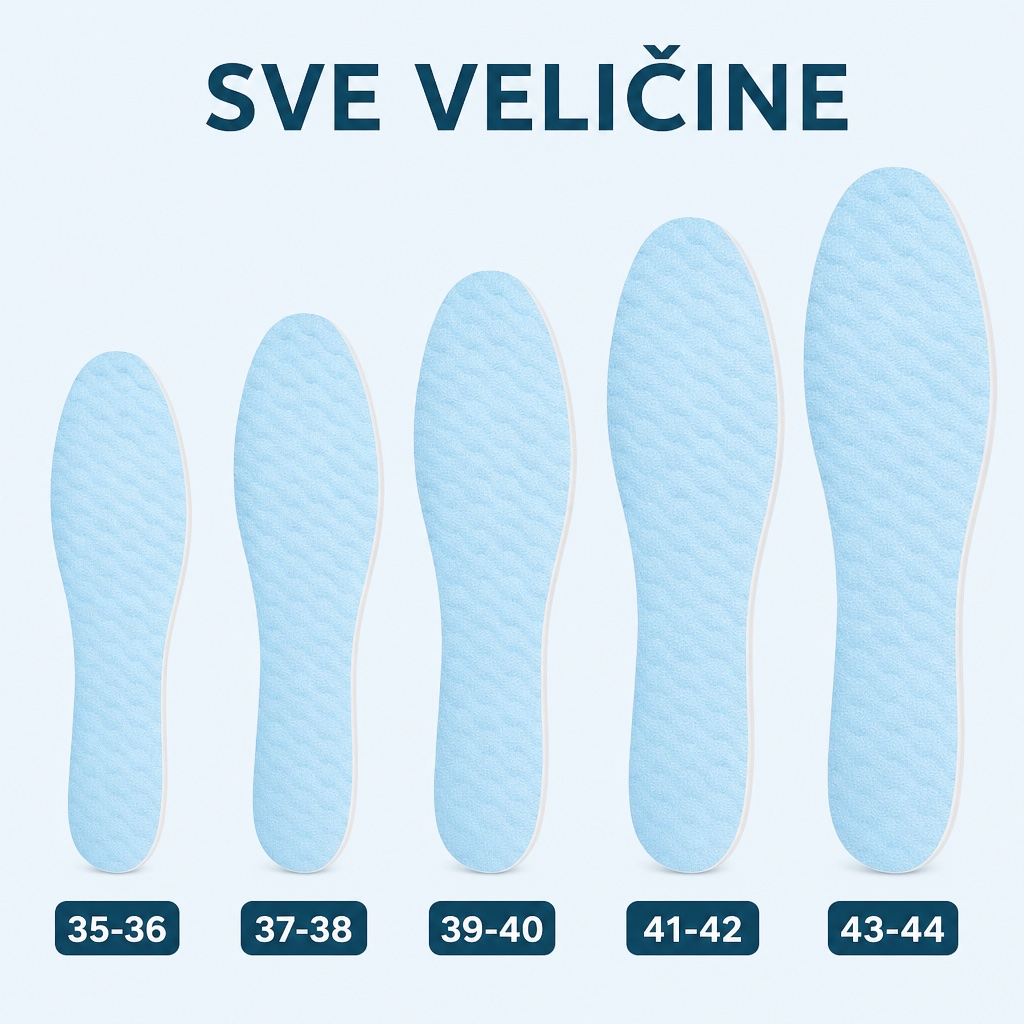
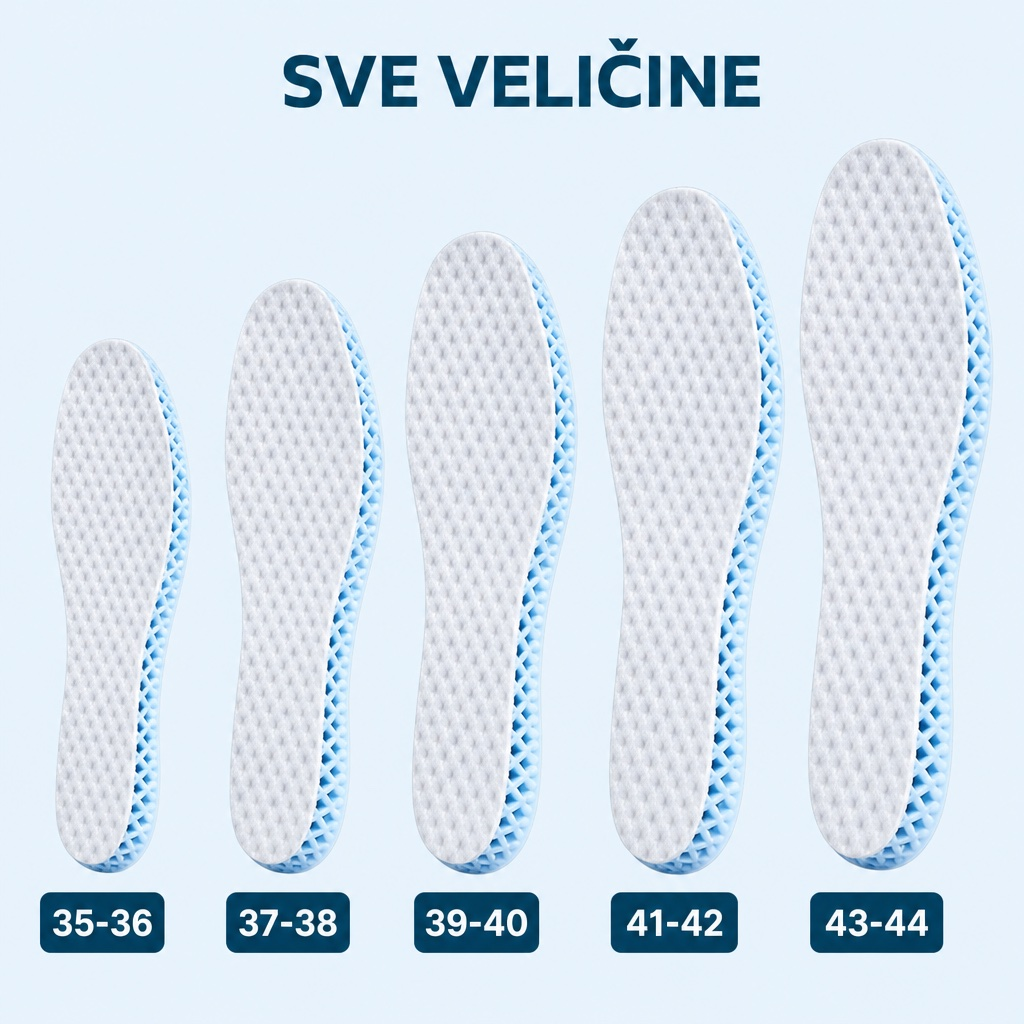
deploy 2026-08-06-2024

diff --git a/lednik-ulosci/index.html b/lednik-ulosci/index.html
@@ -3,7 +3,7 @@
 <head>
 <meta charset="utf-8">
 <meta name="viewport" content="width=device-width, initial-scale=1, viewport-fit=cover">
-<title>Ulošci za cipele protiv znojenja i mirisa – stopala ostaju suva i sveža ceo dan, i u patikama | LEDNIK</title>
+<title>Rashlađujući 4D ulošci za patike i cipele – vazduh kruži, stopala ostaju suva i bez mirisa ceo dan | LEDNIK</title>
 <style>
 /* ============================================================
    PAGE-DUPLICATOR TEMPLATE — bundle-builder funnel
@@ -421,12 +421,12 @@ footer .disc{margin-top:12px;font-size:11px;line-height:1.5;text-align:left}
   <div class="wrap">
     <h2 class="display center">SUVA STOPALA BEZ PRSKANJA I PUDERA</h2>
     <p>Znaš onaj trenutak kad se izuješ kod nekoga u kući? Ceo dan si na nogama, obuća ne diše, a onda ti je neprijatno pred ljudima. Rešenje obično bude sprej ujutru, puder u čarapama, pa opet isto do podne.</p>
-    <p><b>LEDNIK ide drugim putem.</b> Uložak koji upija znoj i vlagu direktno tamo gde nastaju — u obući. Ubaciš ga jednom i zaboraviš. Bez prskanja svako jutro i bez belog praha po čarapama.</p>
+    <p><b>LEDNIK ide drugim putem.</b> Umesto ravnog uloška koji samo leži u cipeli, ovo je otvorena 4D mreža — vazduh kroz nju struji pri svakom koraku, pa se vlaga ne zadržava. A mreža se skuplja pod stopalom i vraća, kao mali jastuk na svakom koraku.</p>
     <div class="cards">
-      <div class="card"><div class="ico">💧</div><b>Upija znoj i vlagu</b></div>
+      <div class="card"><div class="ico">💨</div><b>Vazduh kruži pri svakom koraku</b></div>
       <div class="card"><div class="ico">🌿</div><b>Neutrališe neprijatan miris</b></div>
-      <div class="card"><div class="ico">🪶</div><b>Tanki — ne stežu u obući</b></div>
-      <div class="card"><div class="ico">👟</div><b>Za patike, cipele i radnu obuću</b></div>
+      <div class="card"><div class="ico">🫧</div><b>4D mreža amortizuje korak</b></div>
+      <div class="card"><div class="ico">👟</div><b>Za patike i sportsku obuću</b></div>
     </div>
   </div>
 </section>
@@ -444,7 +444,7 @@ footer .disc{margin-top:12px;font-size:11px;line-height:1.5;text-align:left}
     <div class="review">
       <div class="s">★★★★★</div>
       <h4>Uzela sam komplet od 4</h4>
-      <q>Jedan par u patike za teretanu, jedan u cipele, ostalo mužu. Tanki su, ne osećaš ih uopšte, a obuća posle ne miriše.</q>
+      <q>Jedan par u patike za teretanu, jedan u cipele, ostalo mužu. Kao da hodaš po jastuku, a obuća posle ne miriše.</q>
       <div class="who"><span class="vc">✓</span>Dragana M.</div>
       <div class="vb">Recenzija kupca</div>
     </div>
@@ -463,9 +463,9 @@ footer .disc{margin-top:12px;font-size:11px;line-height:1.5;text-align:left}
   <section class="steps">
     <h2 class="display">TRI SEKUNDE I GOTOVO</h2>
     <p class="sub">Bez prskanja, bez pudera, bez čekanja.</p>
-    <div class="step"><div class="n">1</div><div><b>Izvadi stari uložak</b><span>Ako ga obuća uopšte ima — ako nema, LEDNIK ide direktno unutra.</span></div></div>
-    <div class="step"><div class="n">2</div><div><b>Ubaci LEDNIK</b><span>Meka strana gore, glatka strana dole. Legne sam od sebe.</span></div></div>
-    <div class="step"><div class="n">3</div><div><b>Obuj i kreni</b><span>Toliko su tanki da ti obuća ostaje ista po broju.</span></div></div>
+    <div class="step"><div class="n">1</div><div><b>Izvadi fabrički uložak</b><span>Obavezno — LEDNIK ide tačno na njegovo mesto.</span></div></div>
+    <div class="step"><div class="n">2</div><div><b>Ubaci LEDNIK</b><span>Bela mekana strana gore, plava mreža dole.</span></div></div>
+    <div class="step"><div class="n">3</div><div><b>Obuj i kreni</b><span>Mreža se skuplja pod stopalom i vraća pri svakom koraku.</span></div></div>
     <div class="step"><div class="n">4</div><div><b>Zameni kad poželiš</b><span>Zato ti se komplet od više pari i isplati — imaš rezervu spremnu.</span></div></div>
   </section>
 </div>
@@ -487,7 +487,7 @@ footer .disc{margin-top:12px;font-size:11px;line-height:1.5;text-align:left}
         <tr><td>Radi ceo dan</td><td class="us"><span class="yes">✓</span></td><td><span class="no">✕</span></td><td><span class="no">✕</span></td></tr>
         <tr><td>Bez prskanja svako jutro</td><td class="us"><span class="yes">✓</span></td><td><span class="no">✕</span></td><td><span class="yes">✓</span></td></tr>
         <tr><td>Upija znoj i vlagu</td><td class="us"><span class="yes">✓</span></td><td><span class="no">✕</span></td><td><span class="no">✕</span></td></tr>
-        <tr><td>Ne steže u obući</td><td class="us"><span class="yes">✓</span></td><td><span class="yes">✓</span></td><td><span class="no">✕</span></td></tr>
+        <tr><td>Amortizuje svaki korak</td><td class="us"><span class="yes">✓</span></td><td><span class="no">✕</span></td><td><span class="no">✕</span></td></tr>
         <tr><td>Plaćaš jednom</td><td class="us"><span class="yes">✓</span></td><td><span class="no">✕</span></td><td><span class="yes">✓</span></td></tr>
       </tbody>
     </table>
@@ -500,8 +500,8 @@ footer .disc{margin-top:12px;font-size:11px;line-height:1.5;text-align:left}
     <h2 class="display">ČESTA PITANJA</h2>
     <details open><summary>Kako da izaberem veličinu?</summary><p>Biraš po broju obuće koji inače nosiš — dostupne su veličine 35-36, 37-38, 39-40, 41-42 i 43-44. Ako si između dva broja, uzmi veći: uložak lako skratiš makazama po liniji na peti.</p></details>
     <details><summary>Šta tačno dobijam u paketu?</summary><p>Svaki par su dva uloška (levi i desni) u zaštitnoj kesici. Uz komplet od 3 ili više pari dobijaš i putnu kesicu za obuću.</p></details>
-    <details><summary>Da li se osete u obući?</summary><p>Ne. Ulošci su tanki (oko 4 mm) pa obuća ostaje ista po broju — ne stežu prste i ne dižu petu.</p></details>
-    <details><summary>Mogu li da ih perem?</summary><p>Možeš da ih prebrišeš vlažnom krpom i ostaviš da se osuše na vazduhu, van direktnog sunca. Ne idu u veš mašinu i ne suše se na radijatoru.</p></details>
+    <details><summary>Koliko su debeli i da li smetaju u obući?</summary><p>LEDNIK je 4D mreža debljine oko 8 mm — deblji je od običnog ravnog uloška, jer upravo ta visina pravi prostor kroz koji vazduh struji i amortizuje korak. Zato uvek izvadi fabrički uložak i stavi LEDNIK na njegovo mesto. Najbolje leže u patikama i sportskoj obući; u vrlo uskim cipelama ili salonkama bez vadljivog uloška nisu najbolji izbor.</p></details>
+    <details><summary>Mogu li da ih perem?</summary><p>Možeš da ih ispereš mlakom vodom i ostaviš da se ocede i osuše na vazduhu, van direktnog sunca — mreža se brzo suši. Ne idu u veš mašinu i ne suše se na radijatoru.</p></details>
     <details><summary>Koliko traju?</summary><p>Uz svakodnevno nošenje jedan par lepo izdrži oko mesec do dva. Zato većina kupaca i uzima komplet — imaš rezervu i ne moraš da poručuješ ponovo.</p></details>
     <details><summary>Kako plaćam?</summary><p>Pouzećem — gotovinom ili karticom kod kurira, tek kada ti paket stigne na vrata. Ne plaćaš ništa unapred.</p></details>
     <details><summary>Koliko traje isporuka?</summary><p>2–4 radna dana na celoj teritoriji Srbije. Dostava je besplatna za komplete od 2 i više pari.</p></details>

diff --git a/jasno-brisac-naocara-2/index.html b/jasno-brisac-naocara-2/index.html
@@ -193,6 +193,11 @@ footer .dis{border-top:1px solid #24394a;margin-top:18px;padding-top:13px;font-s
 .satc .t b{display:block;font:700 13px/1.2 var(--sans);white-space:nowrap;overflow:hidden;text-overflow:ellipsis}
 .satc .t span{display:block;font-size:11.5px;color:var(--mut);white-space:nowrap;overflow:hidden;text-overflow:ellipsis}
 .satc .atc{width:auto;flex:0 0 auto;padding:13px 15px;font-size:14px;box-shadow:0 3px 0 var(--ctaD)}
+
+/* Top header (hamburger / logo / cart) hidden — owner rule 2026-08-06: the LP B
+   replicas do not need the source's site chrome. Markup is kept so re-enabling is
+   just deleting this rule. Announcement bars/marquees stay: they carry offer copy. */
+body > header{display:none!important}
 </style>
 </head>
 <body>

diff --git a/pogled-ogledalo-za-sisanje-2/index.html b/pogled-ogledalo-za-sisanje-2/index.html
@@ -254,6 +254,11 @@ footer .ft{font-size:11.5px;font-weight:800;letter-spacing:.12em;text-transform:
 footer a{color:#DDE2E4;text-decoration:none;display:inline-block;margin:0 8px 6px 0}
 footer .disc{margin-top:16px;font-size:10.5px;line-height:1.6;color:#6B7880}
 footer .cp{margin-top:14px;font-size:11.5px}
+
+/* Top header (hamburger / logo / cart) hidden — owner rule 2026-08-06: the LP B
+   replicas do not need the source's site chrome. Markup is kept so re-enabling is
+   just deleting this rule. Announcement bars/marquees stay: they carry offer copy. */
+body > header{display:none!important}
 </style>
 </head>
 <body>

diff --git a/plavica-caj-2/index.html b/plavica-caj-2/index.html
@@ -133,6 +133,11 @@ footer .disc{margin-top:12px;font-size:11px;line-height:1.55;text-align:left;col
 .satc .atc{margin-left:auto;width:auto;flex:none;padding:14px 18px;font-size:13.5px}
 
 @media(min-width:768px){ .gal,.thumbs{max-width:560px;margin-left:auto;margin-right:auto} }
+
+/* Top header (hamburger / logo / cart) hidden — owner rule 2026-08-06: the LP B
+   replicas do not need the source's site chrome. Markup is kept so re-enabling is
+   just deleting this rule. Announcement bars/marquees stay: they carry offer copy. */
+body > header{display:none!important}
 </style>
 </head>
 <body>

diff --git a/sapica-rukavice-2/index.html b/sapica-rukavice-2/index.html
@@ -133,6 +133,11 @@ footer .disc{margin-top:12px;font-size:11px;line-height:1.55;text-align:left;col
 .satc .atc{margin-left:auto;width:auto;flex:none;padding:14px 18px;font-size:13.5px}
 
 @media(min-width:768px){ .gal,.thumbs{max-width:560px;margin-left:auto;margin-right:auto} }
+
+/* Top header (hamburger / logo / cart) hidden — owner rule 2026-08-06: the LP B
+   replicas do not need the source's site chrome. Markup is kept so re-enabling is
+   just deleting this rule. Announcement bars/marquees stay: they carry offer copy. */
+body > header{display:none!important}
 </style>
 </head>
 <body>

diff --git a/smiraj-prsten-2/index.html b/smiraj-prsten-2/index.html
@@ -165,6 +165,11 @@ footer .lk a{font-size:13px;color:#3f3f3f;text-decoration:underline}
 footer .cp{text-align:center;font-size:12.5px;color:var(--mut);margin-bottom:12px}
 footer .ds{font-size:11.5px;color:#7a7a7a;line-height:1.55}
 footer .ds p{margin-bottom:7px}
+
+/* Top header (hamburger / logo / cart) hidden — owner rule 2026-08-06: the LP B
+   replicas do not need the source's site chrome. Markup is kept so re-enabling is
+   just deleting this rule. Announcement bars/marquees stay: they carry offer copy. */
+body > header{display:none!important}
 </style>
 </head>
 <body>

diff --git a/vrhunac-gumice-2/index.html b/vrhunac-gumice-2/index.html
@@ -247,6 +247,11 @@ details .bd p{margin:0 0 8px}
 footer{background:#000;color:#bbb;padding:26px 0;font-size:13px;text-align:center}
 footer a{color:#ddd;margin:0 7px}
 footer .disc{margin-top:14px;font-size:11px;line-height:1.5;text-align:left;color:#8d8d8d}
+
+/* Top header (hamburger / logo / cart) hidden — owner rule 2026-08-06: the LP B
+   replicas do not need the source's site chrome. Markup is kept so re-enabling is
+   just deleting this rule. Announcement bars/marquees stay: they carry offer copy. */
+body > header{display:none!important}
 </style>
 </head>
 <body>

diff --git a/nijansa-sampon-2/index.html b/nijansa-sampon-2/index.html
@@ -275,6 +275,11 @@ footer .disc{margin-top:14px;font-size:11px;line-height:1.55;color:#83888c}
 .satc .atc{margin-left:auto;width:auto;flex:none;padding:14px 16px;font-size:13px}
 
 @media(min-width:768px){ .gal{padding-left:0;padding-right:0} }
+
+/* Top header (hamburger / logo / cart) hidden — owner rule 2026-08-06: the LP B
+   replicas do not need the source's site chrome. Markup is kept so re-enabling is
+   just deleting this rule. Announcement bars/marquees stay: they carry offer copy. */
+body > header{display:none!important}
 </style>
 </head>
 <body>

diff --git a/tisina-cepici-2/index.html b/tisina-cepici-2/index.html
@@ -250,6 +250,11 @@ footer .disc{margin-top:14px;font-size:11px;line-height:1.55;text-align:left;col
 @media(min-width:768px){
   .gal,.thumbs{max-width:560px;margin-left:auto;margin-right:auto}
 }
+
+/* Top header (hamburger / logo / cart) hidden — owner rule 2026-08-06: the LP B
+   replicas do not need the source's site chrome. Markup is kept so re-enabling is
+   just deleting this rule. Announcement bars/marquees stay: they carry offer copy. */
+body > header{display:none!important}
 </style>
 </head>
 <body>

diff --git a/suncokret-solarni-punjac-2/index.html b/suncokret-solarni-punjac-2/index.html
@@ -170,6 +170,11 @@ footer .disc{margin-top:10px;font-size:11px;line-height:1.6;color:rgba(255,255,2
   footer .cols{grid-template-columns:1fr 1fr}
   .hero img{aspect-ratio:16/9}
 }
+
+/* Top header (hamburger / logo / cart) hidden — owner rule 2026-08-06: the LP B
+   replicas do not need the source's site chrome. Markup is kept so re-enabling is
+   just deleting this rule. Announcement bars/marquees stay: they carry offer copy. */
+body > header{display:none!important}
 </style>
 </head>
 <body>
